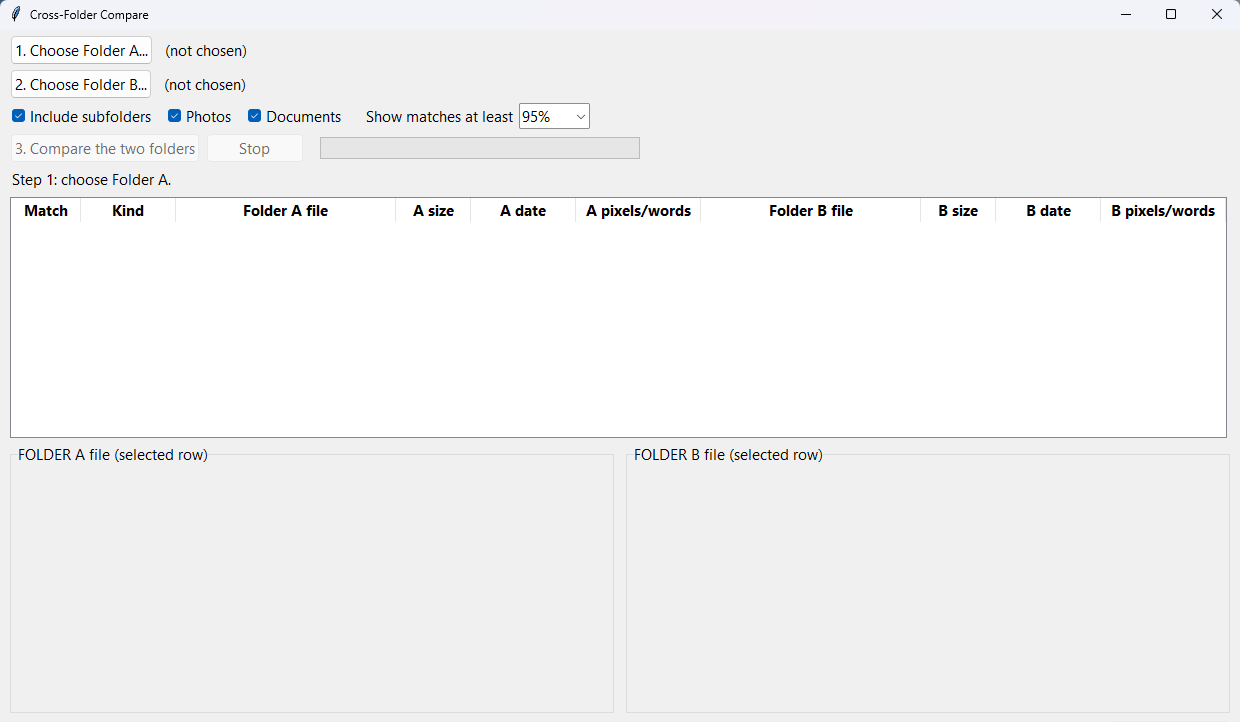
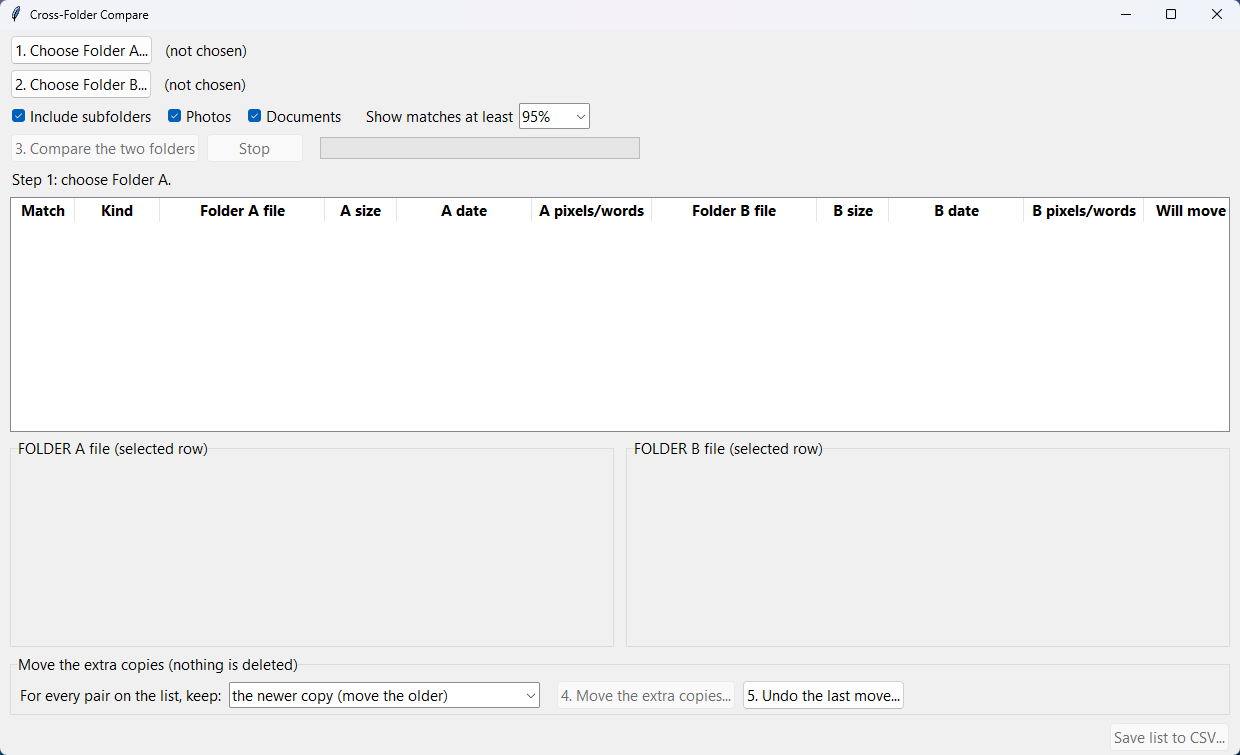
Point Cross Folder Compare's PAD file at its 1.1 release
1.1 can move the extra copies into a REMOVED BY DUPLICATE SCAN folder, with
Undo; it never deletes. README row and screenshot updated.

diff --git a/README.md b/README.md
@@ -20,7 +20,7 @@ Go to **[Releases](../../releases)** and download the Setup.exe for the app you 
 | Document Reformatter | Gives every Word, RTF and text file in a folder one new font, size and spacing, saving copies. **Needs Microsoft Word.** |
 | Document Renamer | Renames a folder of files at once: from their first words, old names or your own text, with dates and numbers. Undo puts old names back. |
 | Find and Replace | Changes text in many Word, RTF and text files at once: words, formatting, beginnings, endings and sections between two phrases. Shows every change first. **Needs Microsoft Word for Word and RTF files.** |
-| Cross Folder Compare | Finds the photos and documents two folders have in common, even renamed, resized or re-saved. Never moves or deletes anything. |
+| Cross Folder Compare | Finds the photos and documents two folders have in common, even renamed, resized or re-saved. Can move the extra copies into a REMOVED BY DUPLICATE SCAN folder by one rule (keep the newer, older, bigger, smaller or sharper copy), with Undo. Never deletes anything. |
 | Duplicate File Finder | Finds exact copies and look-alike photos, videos and documents, and moves the extras to a review folder. Never deletes anything. |
 | Clean Up Scans | Straightens, crops and whitens photographed or scanned pages, saving cleaned copies and leaving the originals alone. |
 | Proofreader | Fixes spelling, grammar, punctuation and capitals in Word, RTF and text files, saving corrected copies with a report. Its free checker works offline; Word is optional. |
